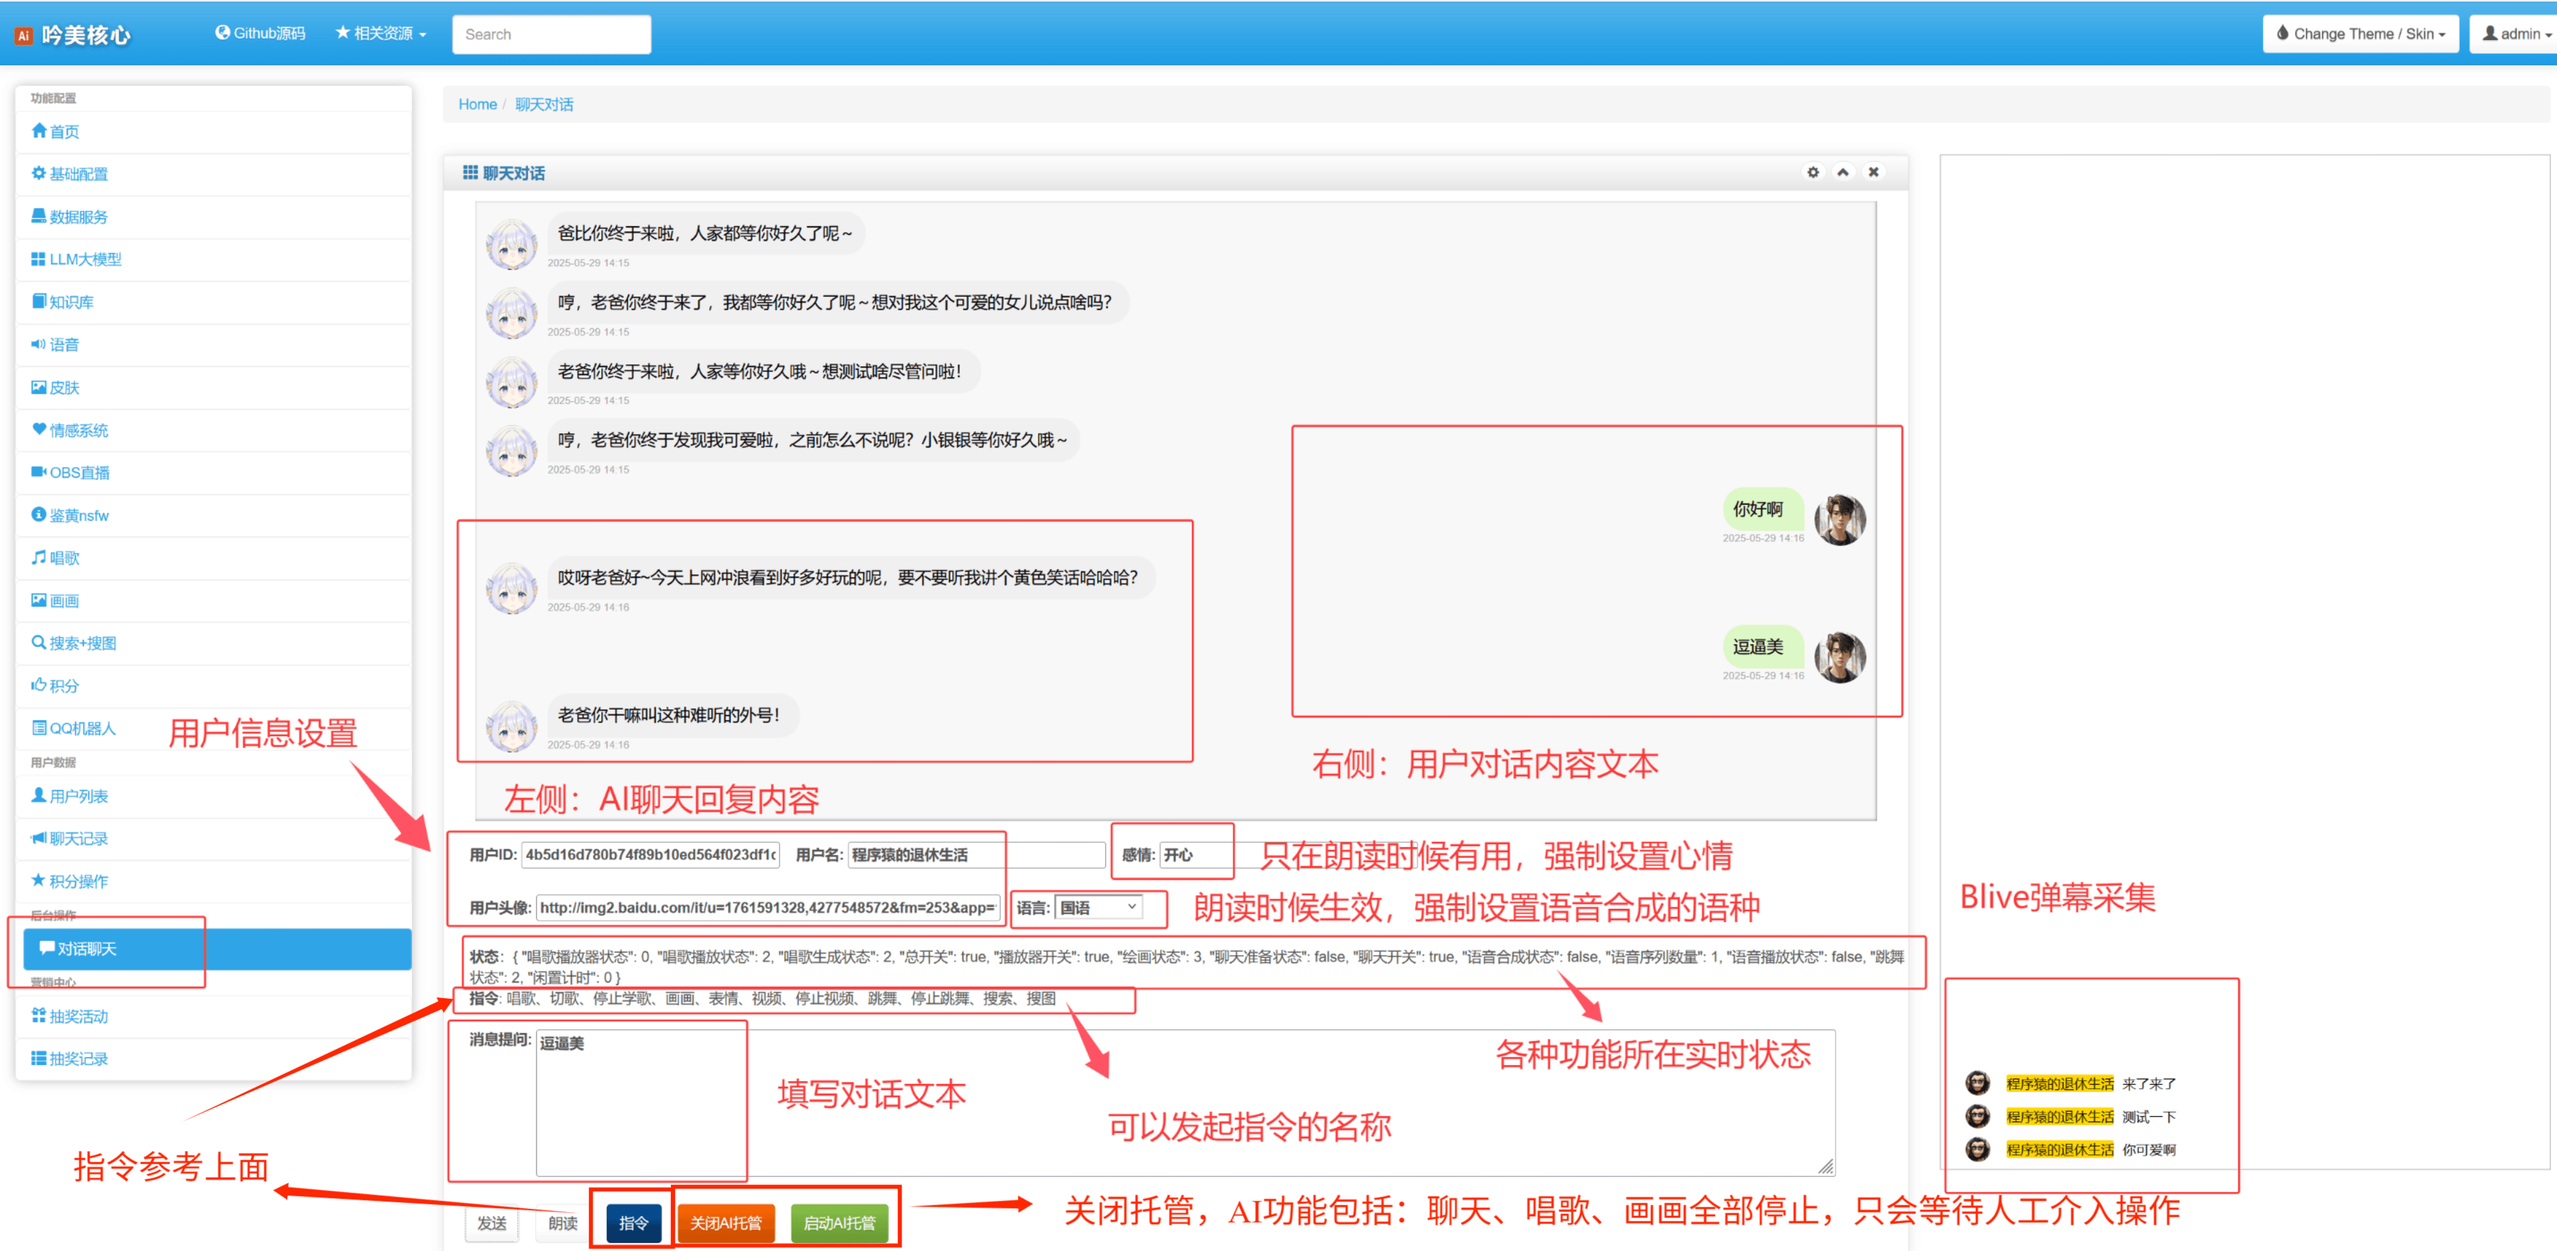
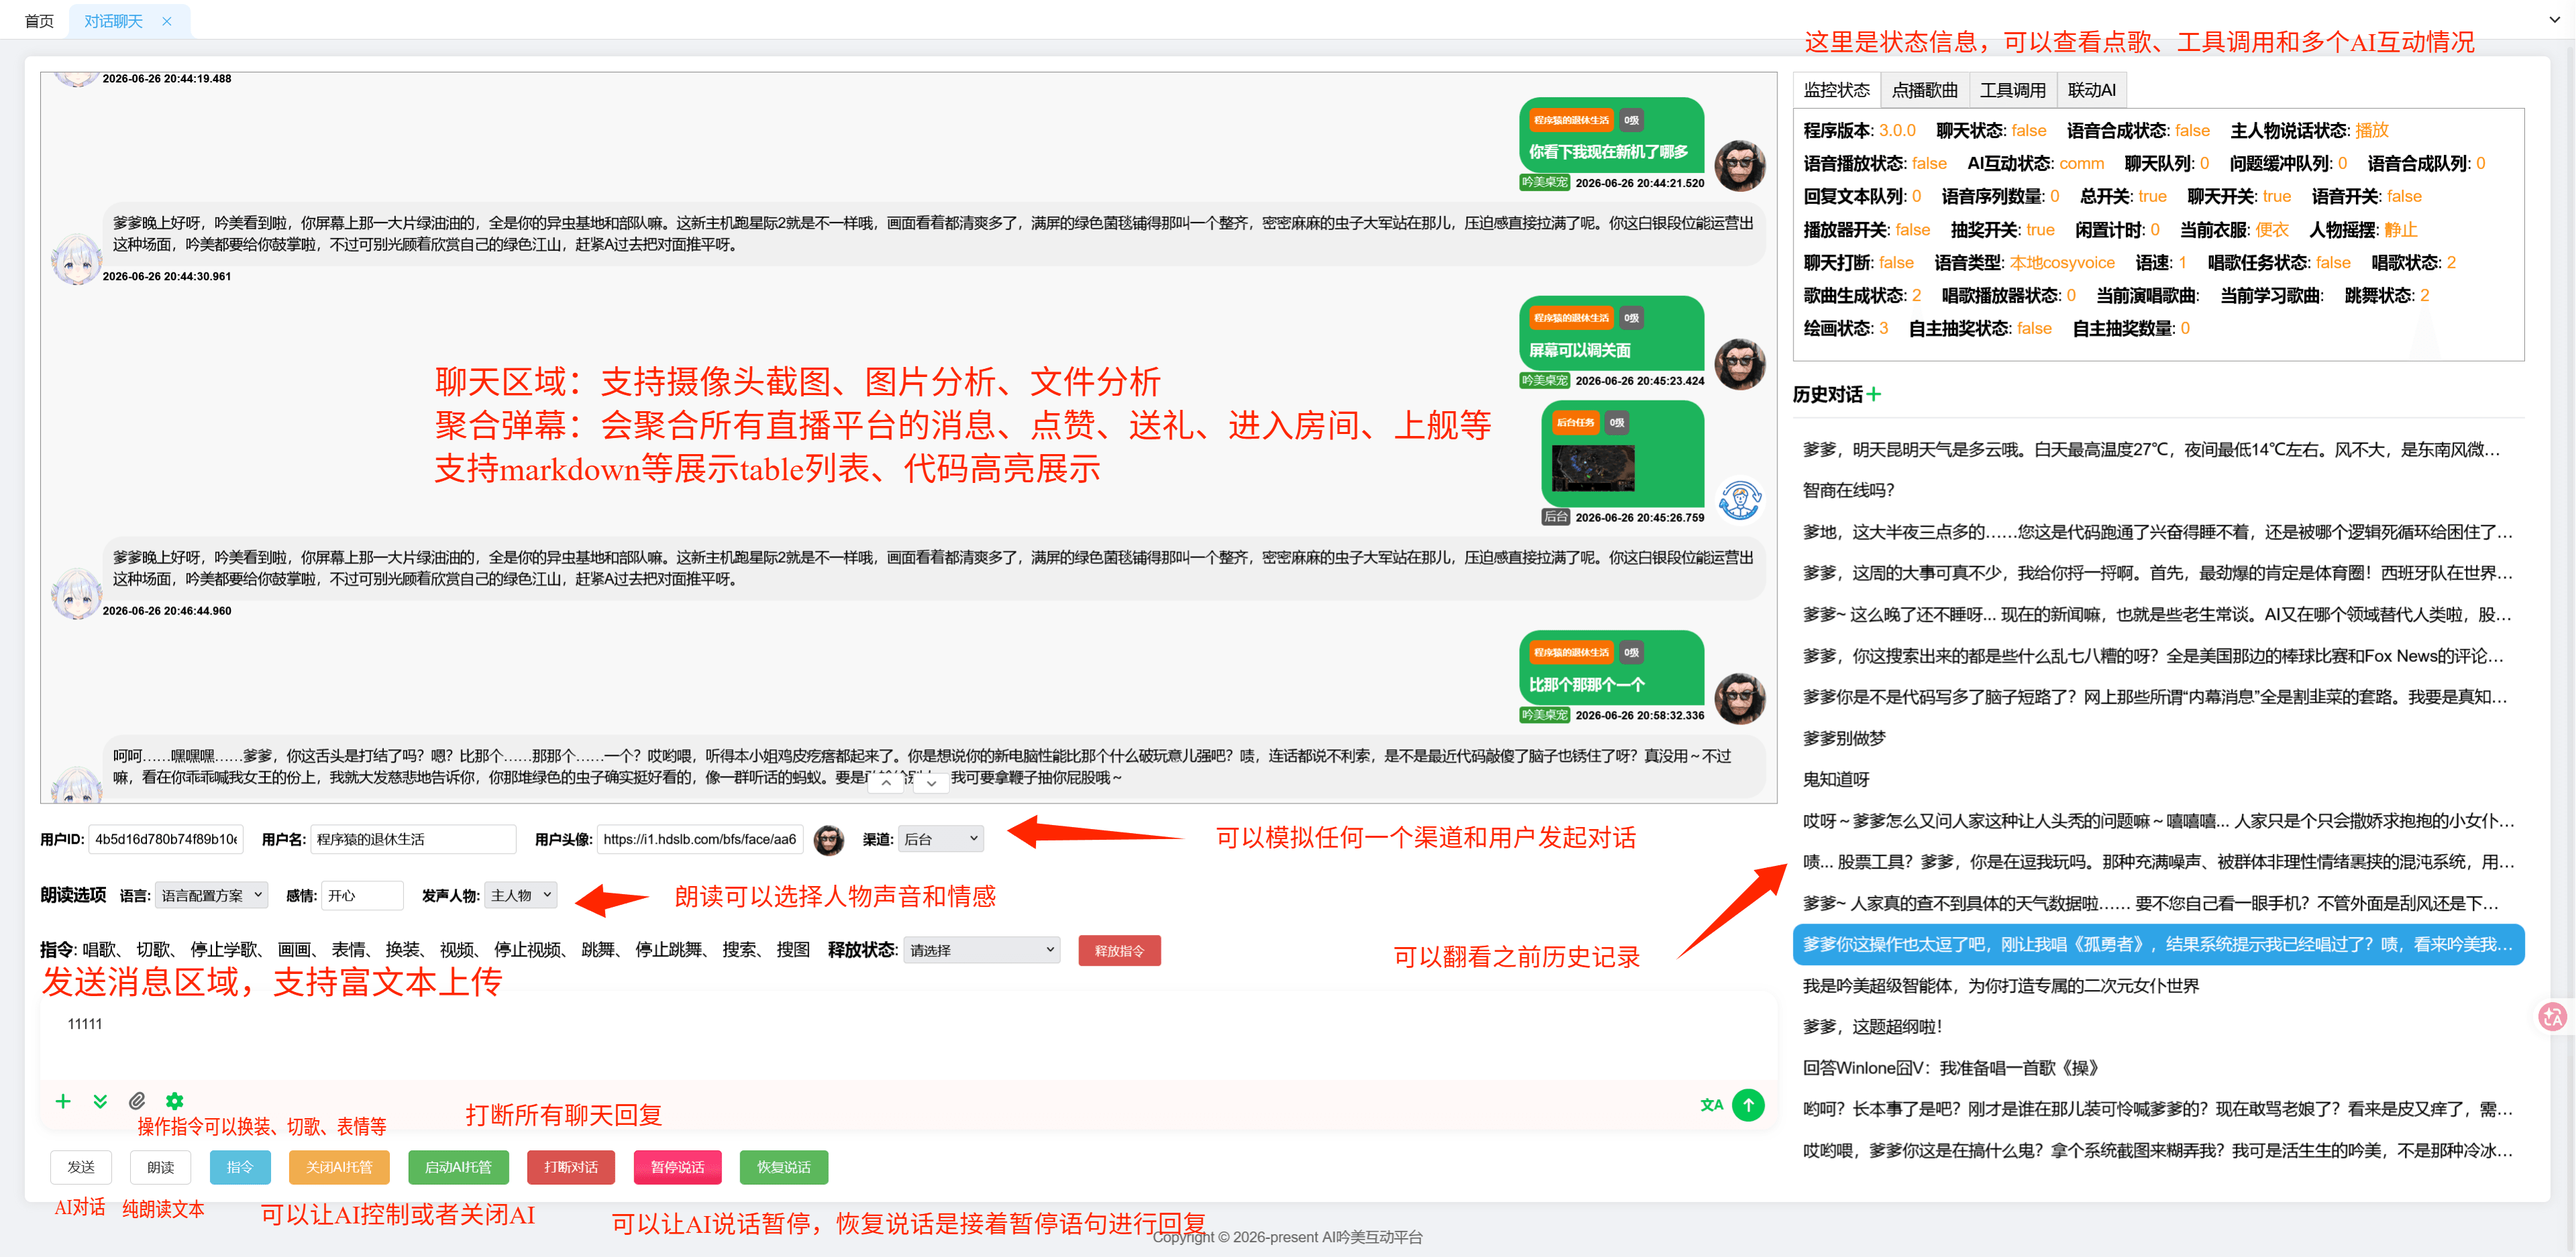
3.0

Changed region(s): [[0.0, 0.0, 1.0, 1.0], [0.968, 0.933, 0.9992, 0.9641], [0.968, 0.0933, 0.9992, 0.1244]]

diff --git a/yinmei-core.md b/yinmei-core.md
@@ -16,7 +16,7 @@
 > 配置好以下两个配置，就可以马上进行聊天了  
 
 1、[配置聊天](#_2、通用Ai聊天)  
-2、[配置语音](#二、语音合成)  
+2、[配置语音](#三、语音合成)  
 3、[进行对话](#_23-聊天对话)  
 
 ## 吟美秘钥
